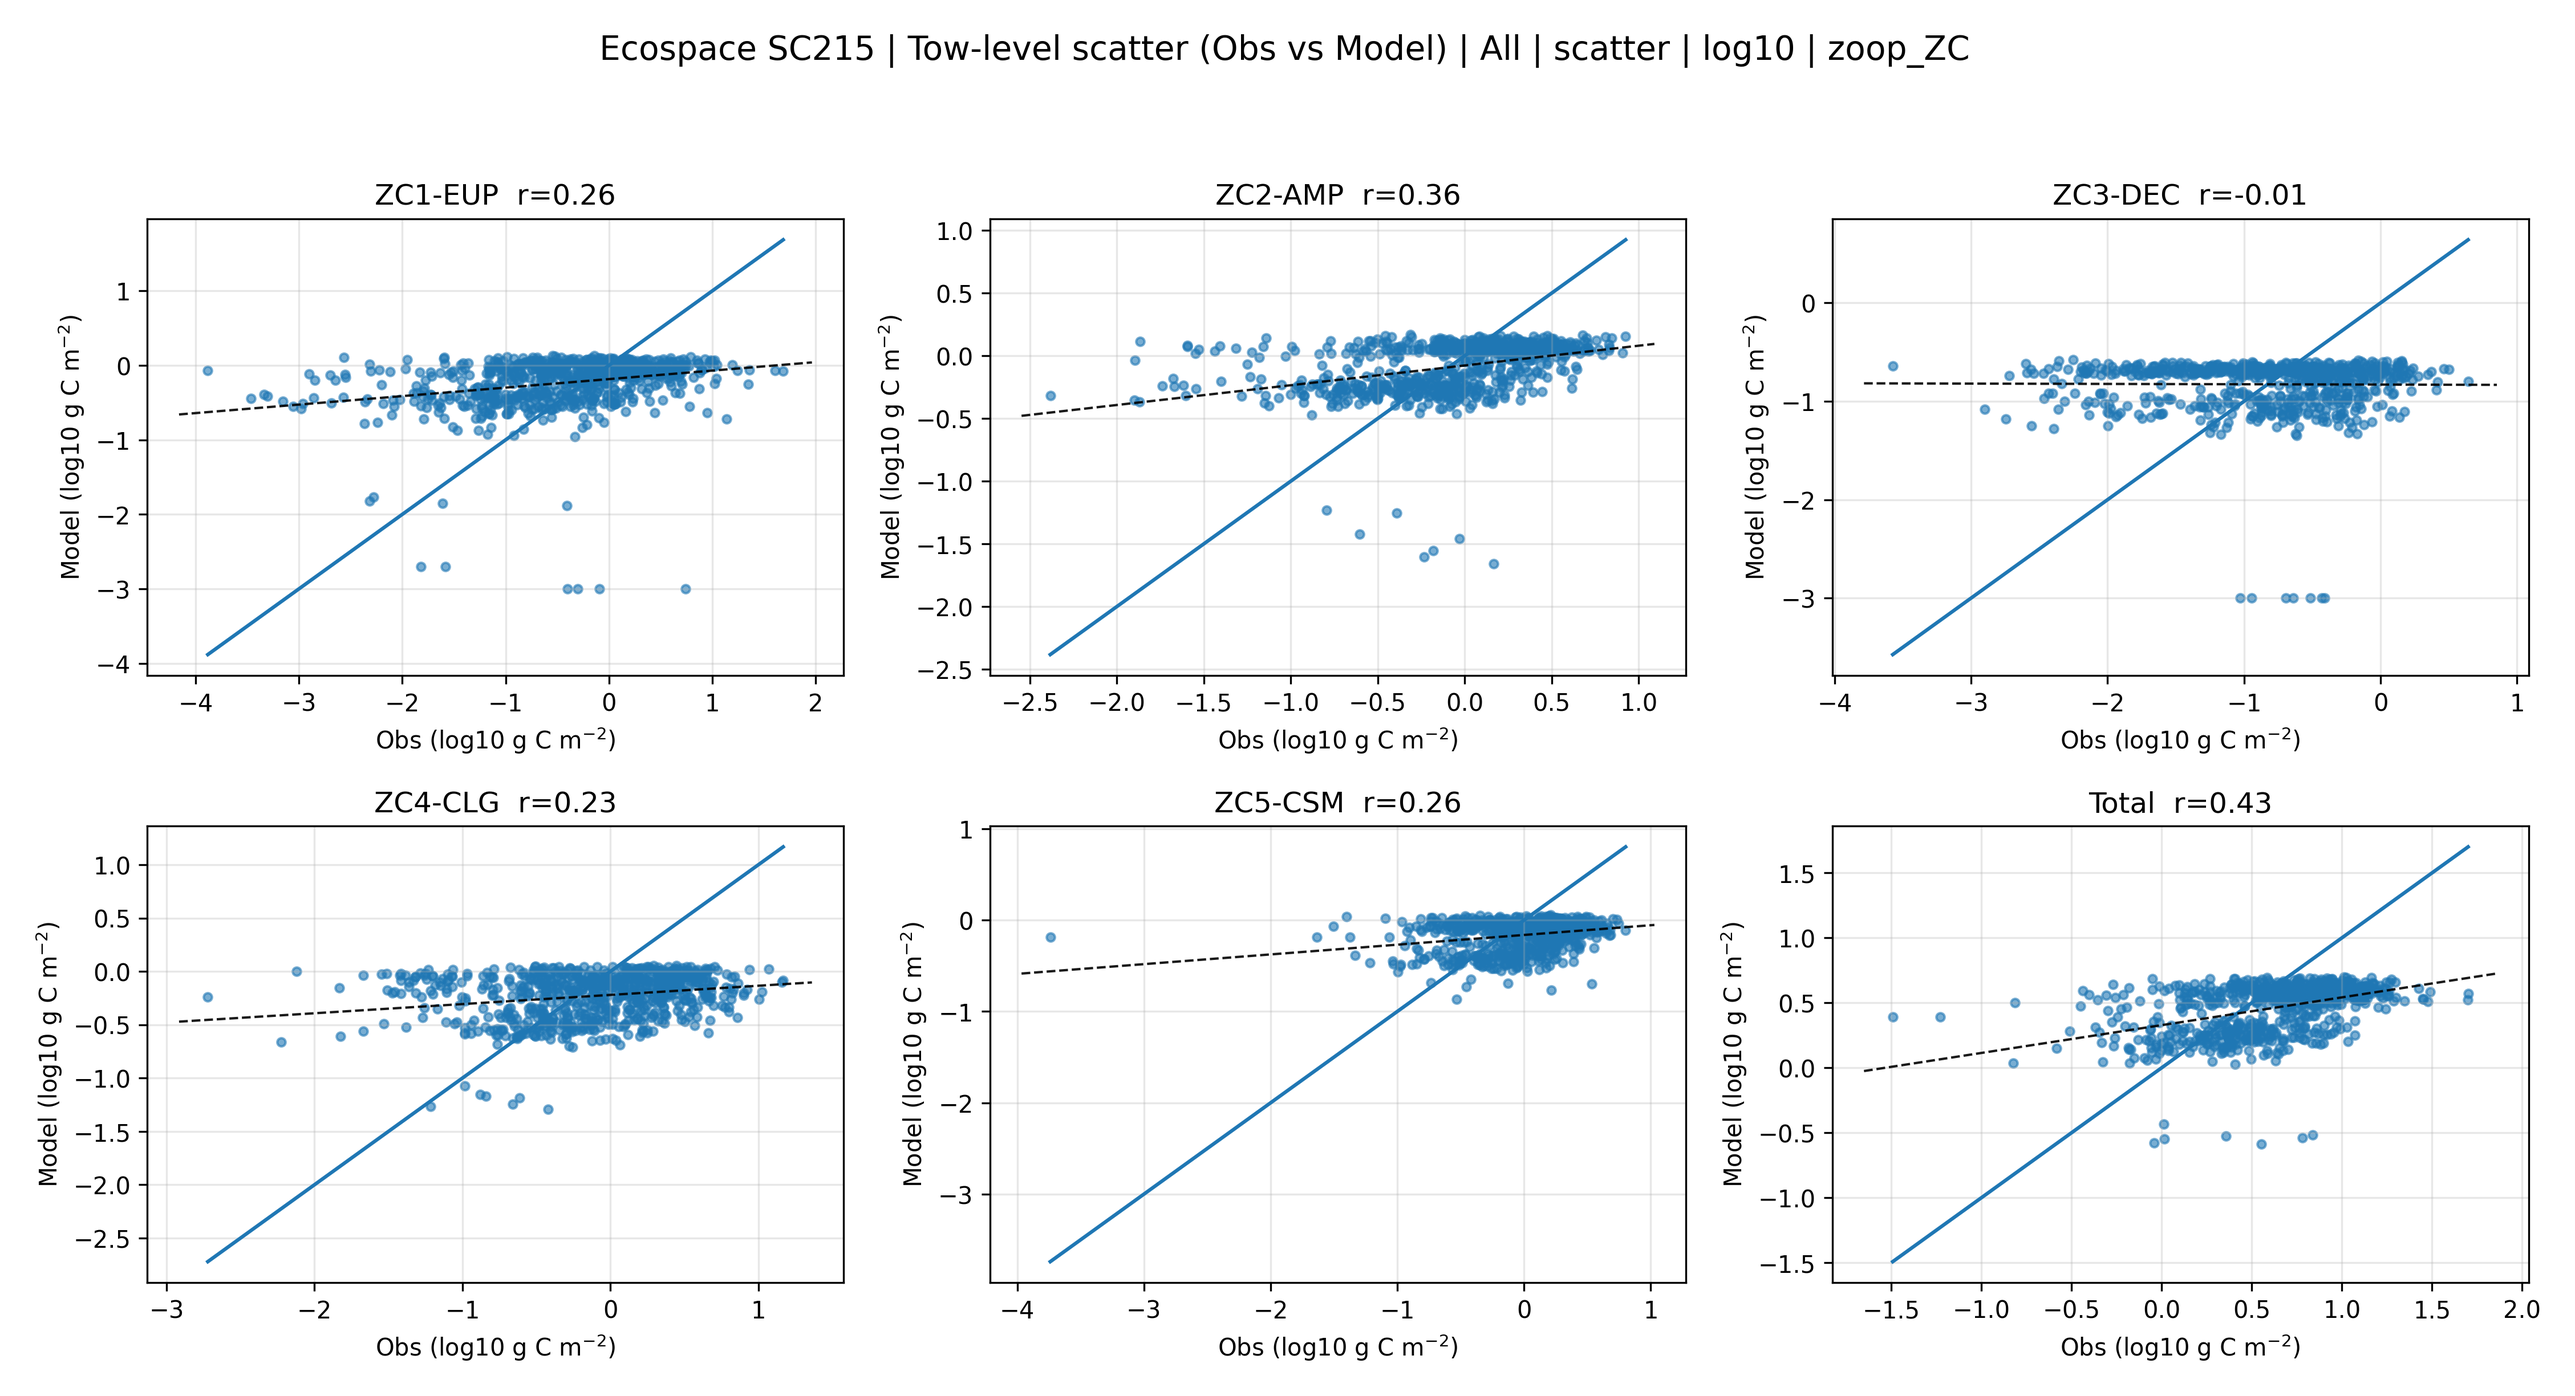
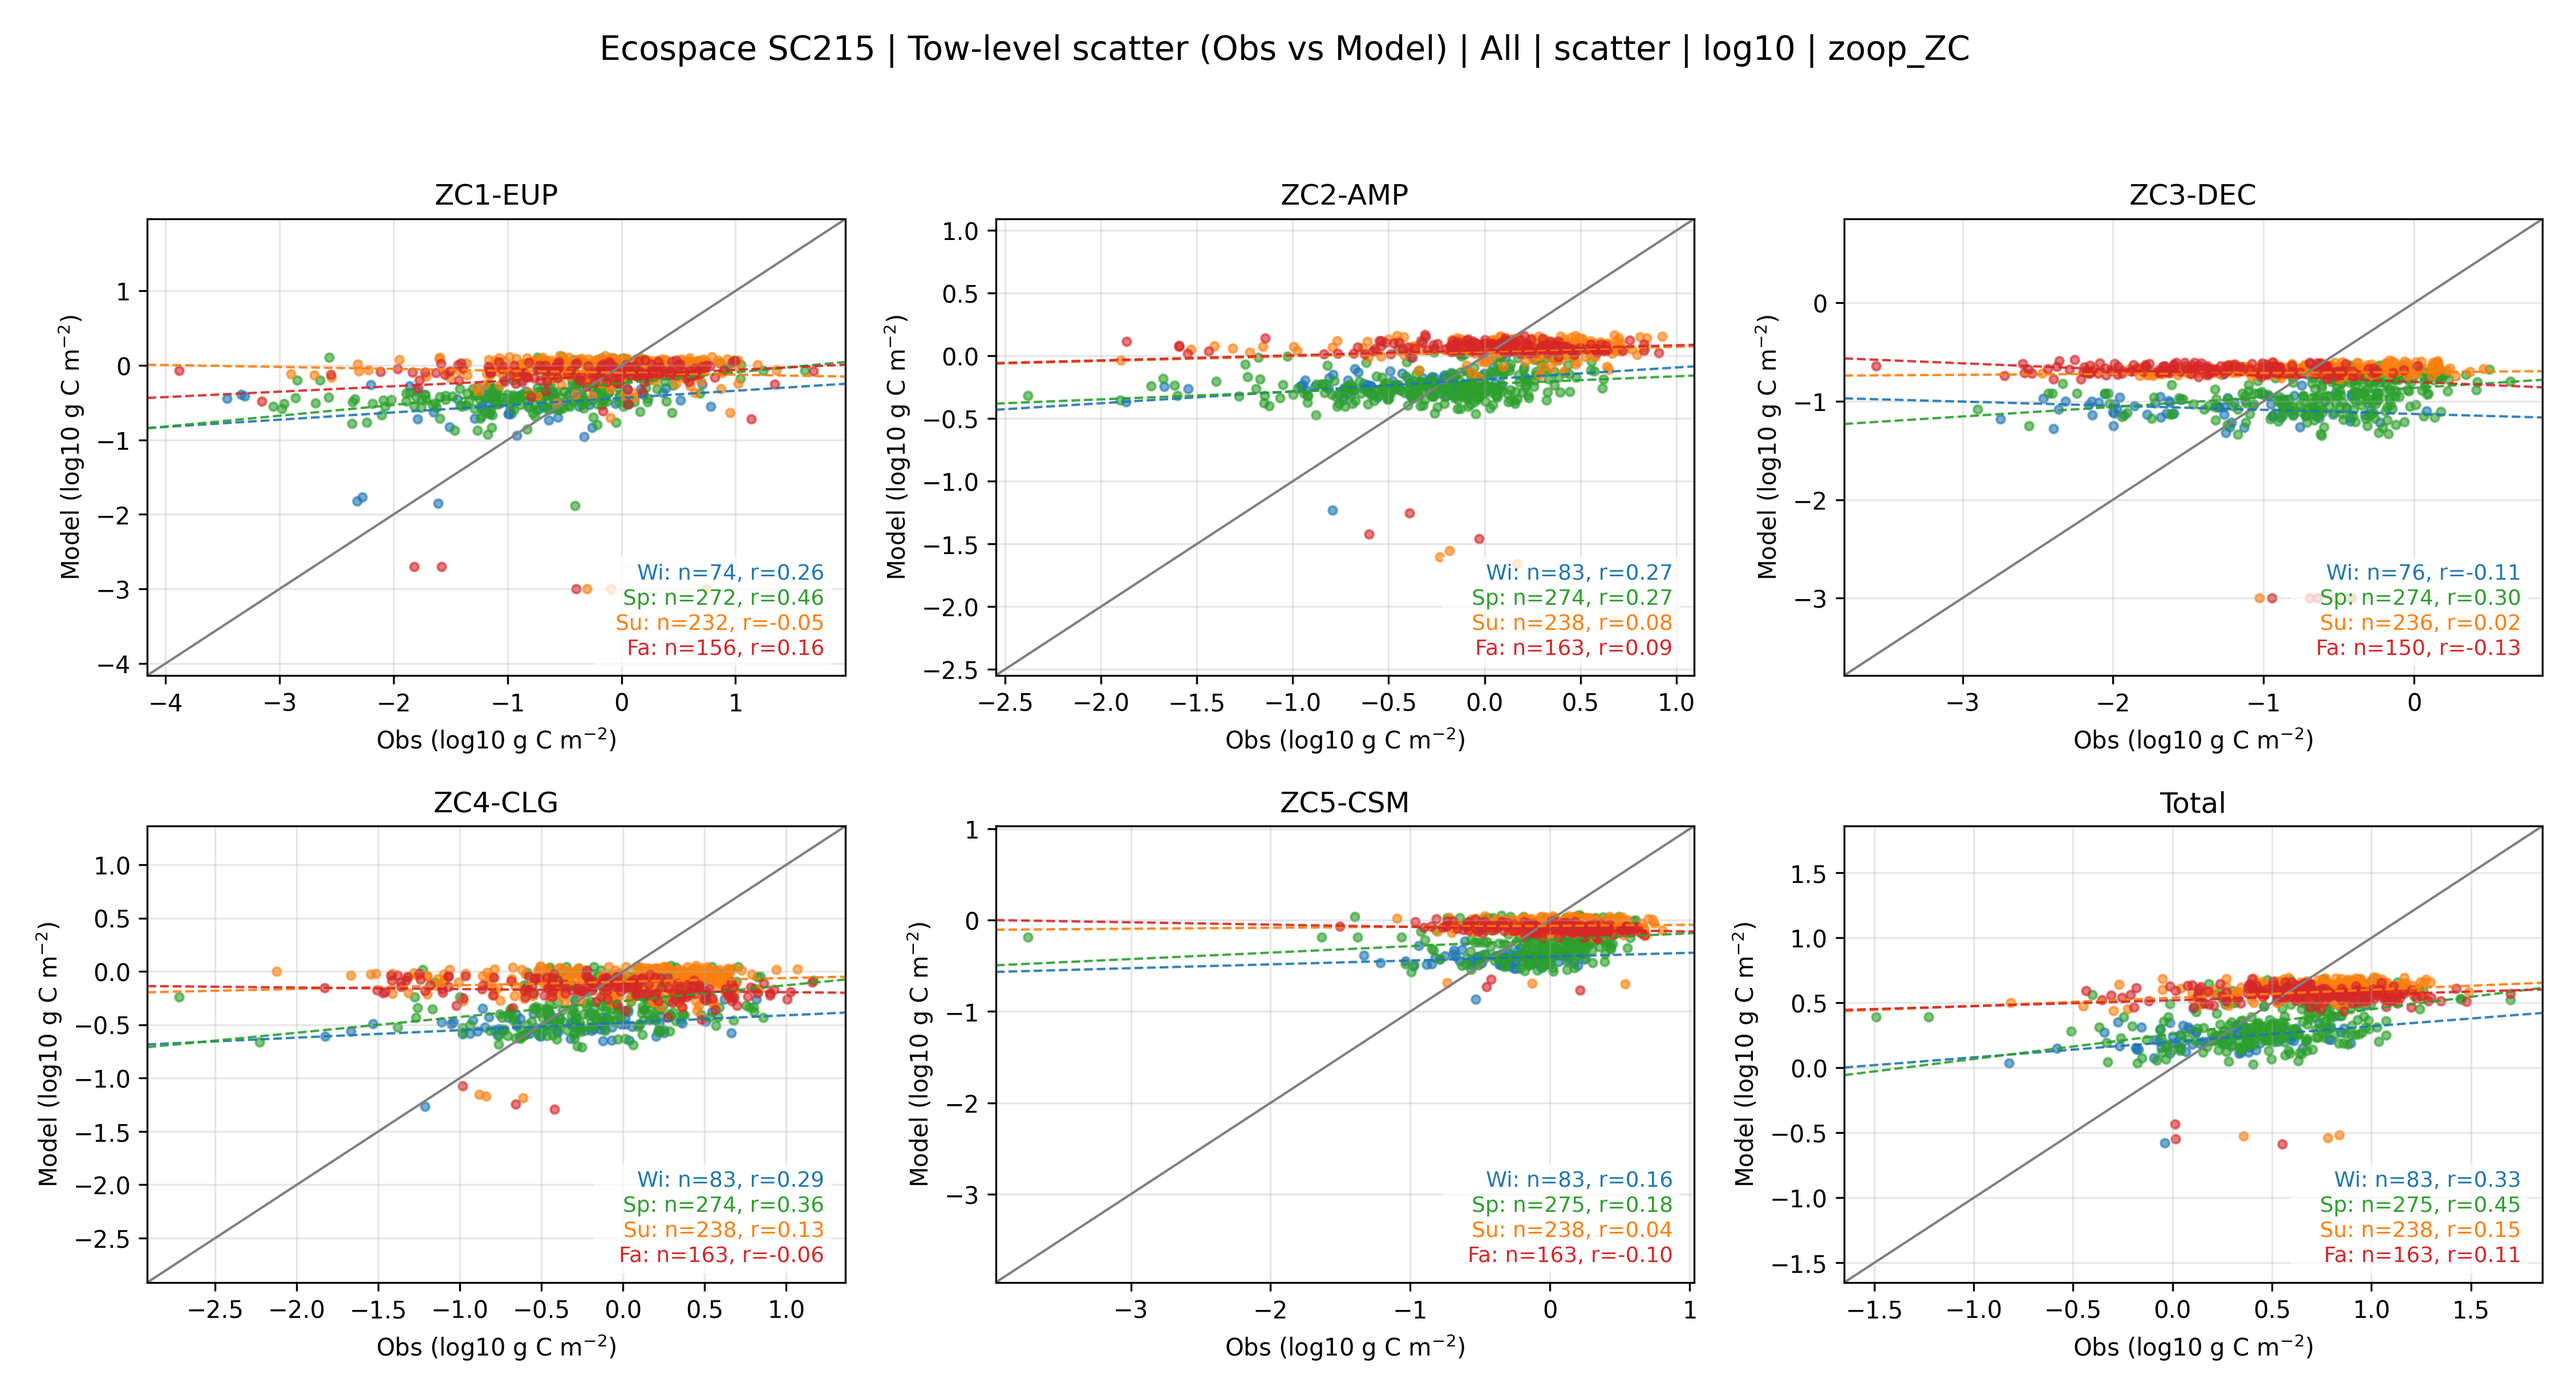
changes to all seasons on one tow level scatter for zp eval

diff --git a/scripts/PublicationScripts/ecospace_eval_5_zoop_eval.py b/scripts/PublicationScripts/ecospace_eval_5_zoop_eval.py
@@ -2529,6 +2529,47 @@ def _add_statbox(ax, text: str, *, x=0.98, y=0.02):
         zorder=10,
     )
 
+def _add_colored_statbox(ax, lines, *, x=0.98, y=0.02, lineheight=0.055):
+    """
+    lines: list of (text, color) tuples
+    Places a multi-line stats box in axes coordinates.
+    """
+    if not lines:
+        return
+
+    # crude box height estimate in axes coordinates
+    n = len(lines)
+    box_h = lineheight * n + 0.02
+    box_w = 0.34  # adjust if needed
+
+    # draw background box
+    rect = plt.Rectangle(
+        (x - box_w, y),
+        box_w,
+        box_h,
+        transform=ax.transAxes,
+        facecolor="white",
+        edgecolor="none",
+        alpha=0.75,
+        zorder=9,
+    )
+    ax.add_patch(rect)
+
+    # draw each line, top to bottom
+    for j, (txt, color) in enumerate(lines):
+        yy = y + box_h - 0.015 - j * lineheight
+        ax.text(
+            x - 0.01,
+            yy,
+            txt,
+            transform=ax.transAxes,
+            ha="right",
+            va="top",
+            fontsize=9,
+            color=color,
+            zorder=10,
+        )
+
 def plot_pub_panel_total_single_season(
     paired: pd.DataFrame,
     *,
@@ -3102,35 +3143,113 @@ def plot_scatter_matched_tows(
     fig, axes = plt.subplots(nrows, ncols, figsize=(5 * ncols, 4 * nrows))
     axes = np.atleast_1d(axes).flatten()
 
+    season_order = ["Winter", "Spring", "Summer", "Fall"]
+    season_colors = {
+        "Winter": "tab:blue",
+        "Spring": "tab:green",
+        "Summer": "tab:orange",
+        "Fall": "tab:red",
+    }
+    season_short = {
+        "Winter": "Wi",
+        "Spring": "Sp",
+        "Summer": "Su",
+        "Fall": "Fa",
+    }
+
     for i, grp in enumerate(groups):
         ax = axes[i]
-        g = d[d["group"] == grp]
-        ax.scatter(g["obs_x"], g["mod_y"], s=12, alpha=0.6)
+        g = d[d["group"] == grp].copy()
 
-        if len(g) > 0:
-            lo = min(g["obs_x"].min(), g["mod_y"].min())
-            hi = max(g["obs_x"].max(), g["mod_y"].max())
-            ax.plot([lo, hi], [lo, hi], "-")
+        if g.empty:
+            ax.set_title(grp)
+            ax.set_xlabel(xlab)
+            ax.set_ylabel(ylab)
+            ax.grid(True, alpha=0.3)
+            continue
 
-            _add_best_fit_line(
-                ax,
-                g["obs_x"].values,
-                g["mod_y"].values,
-                color="k",
-                linestyle="--",
-                linewidth=1,
-                show_eq=False,
+        # axis limits from all seasons pooled within this group
+        lo = min(g["obs_x"].min(), g["mod_y"].min())
+        hi = max(g["obs_x"].max(), g["mod_y"].max())
+        pad = 0.05 * (hi - lo if hi > lo else 1.0)
+
+        ax.plot([lo - pad, hi + pad], [lo - pad, hi + pad], "-", color="#808080", lw=1)
+        ax.set_xlim(lo - pad, hi + pad)
+        ax.set_ylim(lo - pad, hi + pad)
+
+        stat_lines = []
+
+        for season in season_order:
+            gs = g[g["season"] == season].copy()
+            color = season_colors[season]
+
+            if gs.empty:
+                stat_lines.append((f"{season_short[season]}: n=0", color))
+                continue
+
+            ax.scatter(
+                gs["obs_x"], gs["mod_y"],
+                s=12, alpha=0.6,
+                color=color,
+                label=season if i == 0 else None,
             )
 
-            if len(g) > 1:
-                r = np.corrcoef(g["obs_x"], g["mod_y"])[0, 1]
-                ax.set_title(f"{grp}  r={r:.2f}")
-            else:
-                ax.set_title(grp)
+            if len(gs) >= 2:
+                _add_best_fit_line(
+                    ax,
+                    gs["obs_x"].values,
+                    gs["mod_y"].values,
+                    color=color,
+                    linestyle="--",
+                    linewidth=1,
+                    show_eq=False,
+                )
 
+            stats = compute_stats(gs, "obs_x", "mod_y", log_or_anom=log10)
+            if stats["N"] >= 2 and np.isfinite(stats["r"]):
+                stat_lines.append((f"{season_short[season]}: n={int(stats['N'])}, r={stats['r']:.2f}", color))
+            else:
+                stat_lines.append((f"{season_short[season]}: n={int(stats['N'])}", color))
+
+
+        ax.set_title(grp)
         ax.set_xlabel(xlab)
         ax.set_ylabel(ylab)
         ax.grid(True, alpha=0.3)
+
+        # overlay stats box
+        _add_colored_statbox(ax, stat_lines)
+
+    #
+    # for i, grp in enumerate(groups):
+    #     ax = axes[i]
+    #     g = d[d["group"] == grp]
+    #     ax.scatter(g["obs_x"], g["mod_y"], s=12, alpha=0.6)
+    #
+    #     if len(g) > 0:
+    #         lo = min(g["obs_x"].min(), g["mod_y"].min())
+    #         hi = max(g["obs_x"].max(), g["mod_y"].max())
+    #         ax.plot([lo, hi], [lo, hi], "-")
+    #
+    #         _add_best_fit_line(
+    #             ax,
+    #             g["obs_x"].values,
+    #             g["mod_y"].values,
+    #             color="k",
+    #             linestyle="--",
+    #             linewidth=1,
+    #             show_eq=False,
+    #         )
+    #
+    #         if len(g) > 1:
+    #             r = np.corrcoef(g["obs_x"], g["mod_y"])[0, 1]
+    #             ax.set_title(f"{grp}  r={r:.2f}")
+    #         else:
+    #             ax.set_title(grp)
+    #
+    #     ax.set_xlabel(xlab)
+    #     ax.set_ylabel(ylab)
+    #     ax.grid(True, alpha=0.3)
 
     for j in range(len(groups), len(axes)):
         axes[j].axis("off")
@@ -3140,11 +3259,16 @@ def plot_scatter_matched_tows(
     if getattr(cfg5, "ADD_FIG_SUPTITLE", True):
         log_state = "log10" if log10 else "raw"
 
+        if len(season) > 1:
+            season_title = "All"
+        else:
+            season_title = season
+
         st = fig.suptitle(
             _fig_title(
                 cfg5,
                 kind="Tow-level scatter (Obs vs Model)",
-                season=season,           # <-- ADD THIS
+                season=season_title,           # <-- ADD THIS
                 plot_type="scatter",
                 log_state=log_state,
                 suffix=label,            # keep label as suffix for consistency
@@ -3173,6 +3297,8 @@ def plot_scatter_matched_tows(
     plt.close(fig)
     print(f"[INFO] Saved scatter plot: {outpath}")
     return outpath
+
+
 
 def plot_scatter_anomalies(
     annual: pd.DataFrame,

diff --git a/scripts/PublicationScripts/ecospace_eval_config.py b/scripts/PublicationScripts/ecospace_eval_config.py
@@ -295,7 +295,7 @@ BT_MIN_Y_TICK = 38
 # -------------------------------------------
 # evaluation 5 - zooplankton eval
 # -------------------------------------------
-ZP_RECOMPUTE_MATCH = True # WATCH THIS!!
+ZP_RECOMPUTE_MATCH = False # WATCH THIS!!
 
 Z_F_SEAS = "Zoopl_SofG_1996-2018_df_summary.csv" # this is output by long R script
 Z_F_TOWLEV = "Zooplankton_B_C_gm2_EWEMODELGRP_Wide_NEMO3daymatch.csv" # this is output by short one
